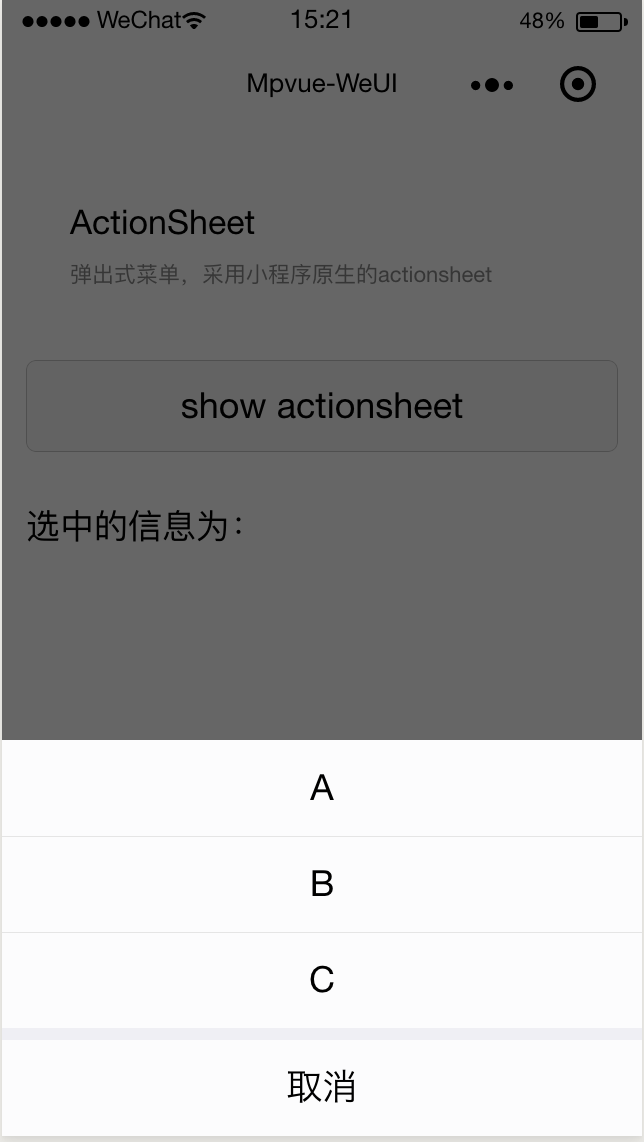
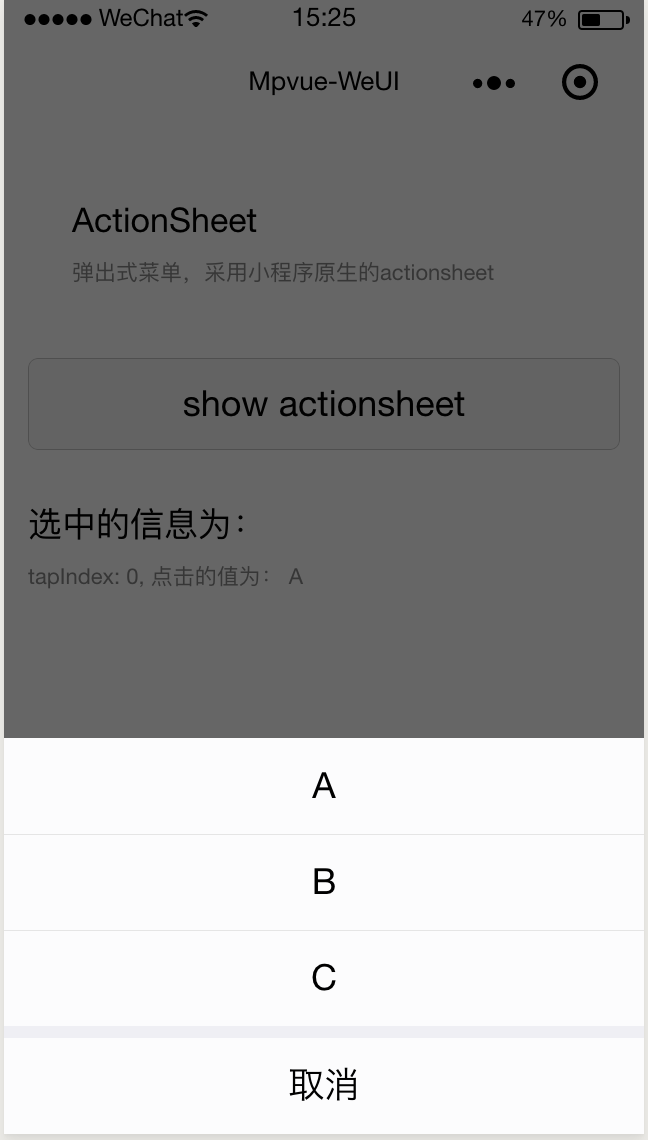
docs: actionsheet docs done

diff --git a/example/pages/actionsheet/index.vue b/example/pages/actionsheet/index.vue
@@ -2,7 +2,7 @@
   <div class="page">
     <page-content title="ActionSheet" desc="弹出式菜单，采用小程序原生的actionsheet">
       <mp-button type="default" size="large" btnClass="mb15" @click="showActionsheet">show actionsheet</mp-button>
-      <mp-actionsheet ref="actionsheet" :actions="actions" @confirm="confirm" @cancel="cancel"></mp-actionsheet>
+      <mp-actionsheet ref="actionsheet" :itemList="itemList" @confirm="confirm" @cancel="cancel"></mp-actionsheet>
     </page-content>
     <div class="page-info">
       <div class="page__title">选中的信息为：</div>
@@ -18,7 +18,7 @@ import pageContent from '../../components/page-content';
 export default {
   data() {
     return {
-      actions: ['A', 'B', 'C'],
+      itemList: ['A', 'B', 'C'],
       actionsheetText: ''
     };
   },
@@ -35,8 +35,8 @@ export default {
       console.log(e);
       this.actionsheetText = `tapIndex: ${e.tapIndex}, 点击的值为： ${e.tapLabel}`;
     },
-    cancel() {
-      console.log('cancel');
+    cancel(e) {
+      console.log(e);
       this.actionsheetText = '点击了取消';
     }
   }

diff --git a/src/actionsheet/index.vue b/src/actionsheet/index.vue
@@ -5,7 +5,7 @@
 <script>
 export default {
   props: {
-    actions: {
+    itemList: {
       type: Array,
       default: []
     }
@@ -13,16 +13,16 @@ export default {
   methods: {
     show() {
       wx.showActionSheet({
-        itemList: this.actions,
+        itemList: this.itemList,
         success: res => {
           let actionsheetObj = {
             tapIndex: res.tapIndex,
-            tapLabel: this.actions[res.tapIndex]
+            tapLabel: this.itemList[res.tapIndex]
           };
           this.$emit('confirm', actionsheetObj);
         },
         fail: res => {
-          this.$emit('cancel');
+          this.$emit('cancel', res);
         }
       });
     }

diff --git a/docs/.vuepress/config.js b/docs/.vuepress/config.js
@@ -55,7 +55,8 @@ module.exports = {
         collapsable: false,
         children: [
           'feedbackComponent/picker',
-          'feedbackComponent/cityPicker'
+          'feedbackComponent/cityPicker',
+          'feedbackComponent/actionsheet'
         ]
       }, {
         title: '导航相关',

diff --git a/docs/feedbackComponent/actionsheet.md b/docs/feedbackComponent/actionsheet.md
@@ -1,3 +1,40 @@
 # Actionsheet
 
-弹出式菜单，采用小程序原生的actionsheet
+弹出式菜单，采用小程序原生的 `actionsheet`。
+
+<imgPreview imgUrl="/assets/actionsheet.png"/>
+
+### 引入
+
+``` js
+import mpActionsheet from 'mpvue-weui/actionsheet';
+export default {
+  components: {
+    mpActionsheet,
+  },
+}
+```
+
+### 使用
+
+``` html
+<mp-actionsheet ref="actionsheet" :itemList="itemList" @confirm="confirm" @cancel="cancel"></mp-actionsheet>
+```
+
+``` js
+/* 调用组件的 `show` 方法进行初始化 */
+this.$refs.actionsheet.show();
+```
+
+### API
+
+| 参数 | 说明 | 类型 | 默认值 |
+|-----------|-----------|-----------|-------------|
+| itemList | 按钮的文字数组，数组长度最大为 6  | `Array` | `[]` |
+
+
+### Event
+| 事件名 | 说明 | 参数 |
+|-----------|-----------|-----------|
+| @confirm | 点击文字按钮时回调 | 返回点击的 `tapIndex` 以及按钮文字 `tapLabel` |
+| @cancel | 点击取消时回调 | 返回 `errMsg` |
